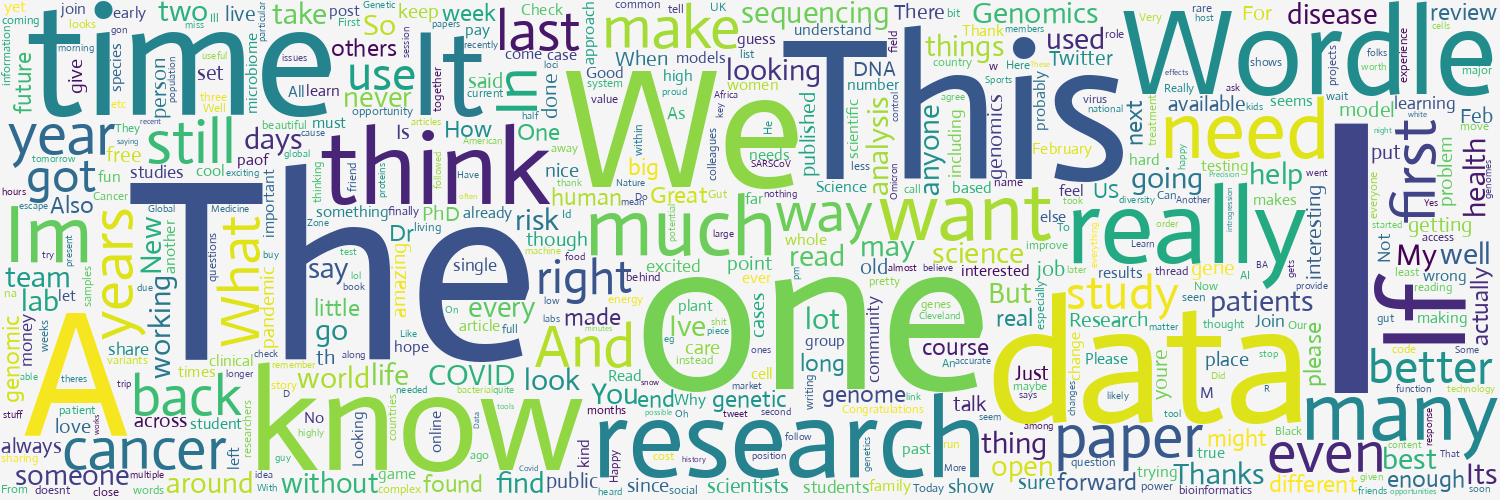
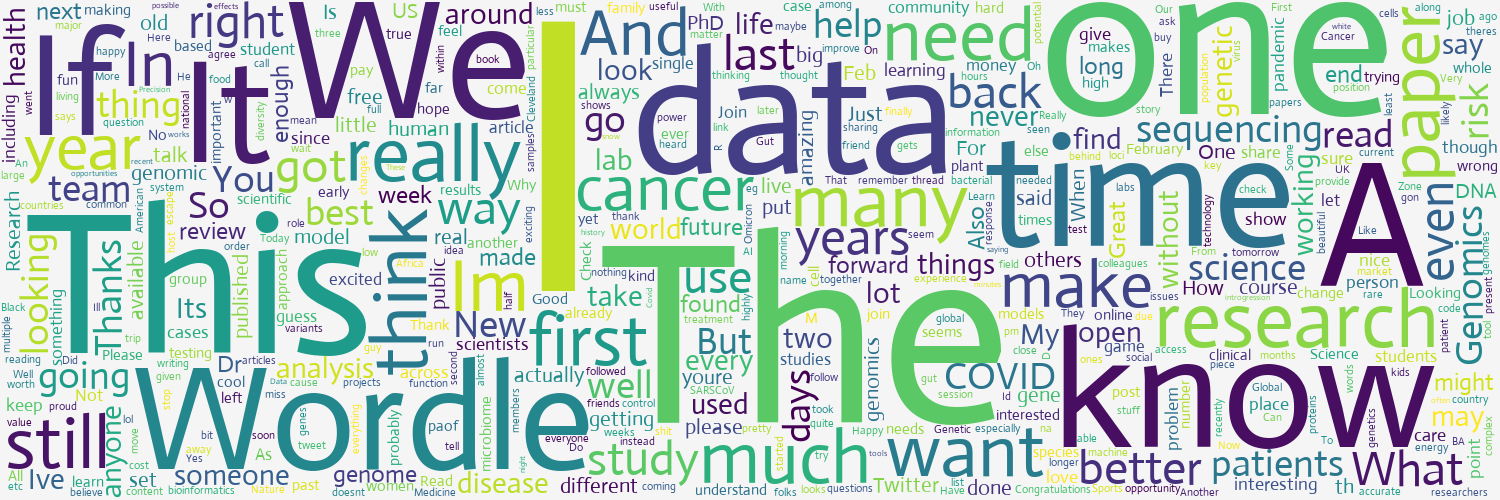
tested tweet_analysis scripy 2.0

diff --git a/scripts/tweet_analyze_2.0.py b/scripts/tweet_analyze_2.0.py
@@ -1,0 +1,81 @@
+# Standard library.
+import sys
+
+
+# External library.
+import pandas as pd
+import nltk
+from nltk.tokenize import word_tokenize
+from nltk.corpus import stopwords
+from nltk import FreqDist
+
+
+# bioinforbot imports
+sys.path.append(".")
+import bioinfobot.utils.tweet_utils as t_utils
+import bioinfobot.utils.datatype_utils as d_utils
+from bioinfobot.utils.collector import get_latest_tweet_data
+
+nltk.download("punkt")
+nltk.download("stopwords")
+
+
+# getting the latest tweet data file (json file)
+data_path = get_latest_tweet_data()
+print(f"Loading data from {data_path}")
+tweet_df = pd.read_csv(data_path, sep="\t")
+
+# setting up file name
+date_info = tweet_df["Date"][0].split("-")
+month, year = date_info[1], date_info[0]
+name = f"{year}-{month}"
+
+# extracting data
+print("Extracting tweets")
+total_hash = t_utils.extract_hash(tweet_df["Text"].tolist())
+
+# data Preprocessing
+tweet_df["Text"] = tweet_df["Text"].apply(t_utils.tweet_clean)
+tweet_df["Tokens"] = tweet_df["Text"].apply(word_tokenize)
+tweet_df["Tokens"] = tweet_df["Tokens"].apply(t_utils.filter_tokens)
+word_tokens = d_utils.flatten_list(tweet_df["Tokens"].tolist())
+
+# data collections
+print("Analyzing Tweets")
+n_rows = len(tweet_df)
+n_words = len(word_tokens)
+total_lang = t_utils.count_prog_langs(total_hash)
+
+# measuring frequencies
+freq = FreqDist(word_tokens)
+n_unique_words = len(freq)
+hash_freq = FreqDist(total_hash)
+user_freq = FreqDist(tweet_df["ScreenName"].tolist())
+lang_freq = FreqDist(total_lang)
+
+top_words = d_utils.dict_value_sort_return_top(freq, 20)
+hash_freq_sorted = d_utils.dict_value_sort_return_top(hash_freq, 20)
+lang_freq_sorted = d_utils.dict_value_sort_return_top(lang_freq, 20)
+users_freq_sorted = d_utils.dict_value_sort_return_top(user_freq, 20)
+
+non_zero_lang = []
+for i in range(len(lang_freq_sorted)):
+    if lang_freq_sorted[i][1] > 0:
+        non_zero_lang.append(lang_freq_sorted[i])
+
+# generated word cloud
+print("Generating word cloud")
+t_utils.create_wordcloud(name, freq)
+
+# json file
+print("Saving analyized tweets into json file")
+t_utils.create_json(
+    name,
+    top_words,
+    n_rows,
+    n_words,
+    n_unique_words,
+    hash_freq_sorted,
+    users_freq_sorted,
+    non_zero_lang,
+)

diff --git a/bioinfobot/utils/tweet_utils.py b/bioinfobot/utils/tweet_utils.py
@@ -146,6 +146,7 @@ def create_wordcloud(name: str, words_freq: dict) -> None:
     ).generate_from_frequencies(words_freq)
 
     wordcloud.to_file(image_path)
+    print(f"WordClouts saved at: {image_path}")
 
 
 # Tweet data utils
@@ -293,7 +294,7 @@ def create_json(
     users_freq_sorted,
     lang_nonzero,
 ):
-    """_summary_
+    """Generates a JSON file containing analyzed monthly tweets
 
     Parameters
     ----------
@@ -333,7 +334,7 @@ def create_json(
     json_path = f"../data/{name}.json"
     with open(json_path, "w") as outfile:
         json.dump(main_dump, outfile)
-
+    print(f"JSON file create at: {json_path}")
     return json_path
 
 
